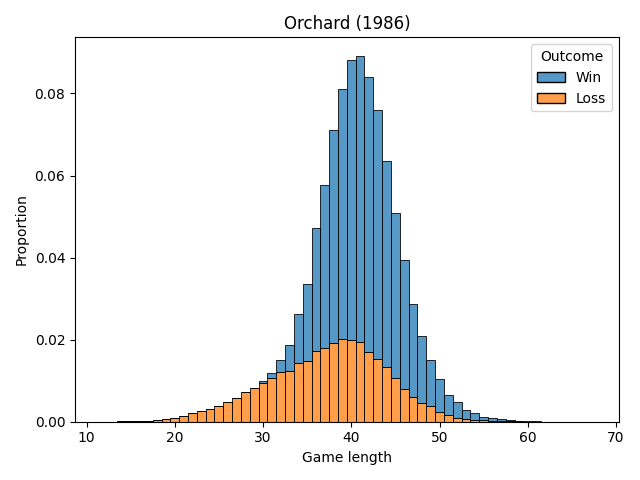
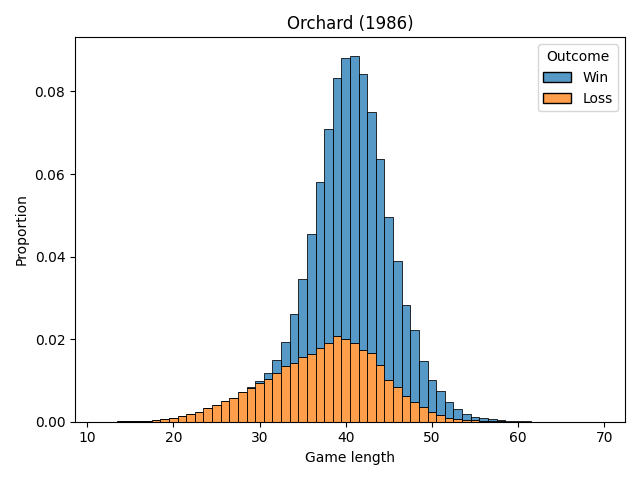
Added First Orchard plots

diff --git a/experiments/orchard/Plots.py b/experiments/orchard/Plots.py
@@ -27,49 +27,48 @@ warnings.filterwarnings("ignore")
 
 # %%
 num_games = 100_000
+random_seed = 42
 save_dir = Path().resolve() / "plots"
 save_dir.mkdir(parents=True, exist_ok=True)
 num_games, save_dir
 
 # %%
 # Original Orchard (1986)
-config = OrchardGameConfig(
+config_original = OrchardGameConfig(
     num_trees=4,
     fruits_per_tree=10,
     fruits_per_basket_roll=2,
     raven_steps=9,
 )
-# First Orchard (2009)
-# config = OrchardGameConfig(
-#     num_trees=4,
-#     fruits_per_tree=4,
-#     fruits_per_basket_roll=1,
-#     raven_steps=6,
-# )
-config
+config_original
 
 # %%
-results = OrchardGame.run_games(config=config, num_games=num_games)
-results.shape
+results_original = OrchardGame.run_games(
+    config=config_original,
+    num_games=num_games,
+    random_seed=random_seed,
+)
+results_original.shape
 
 # %%
-results.cast(pl.Int64).describe()
+results_original.cast(pl.Int64).describe()
 
 # %%
-data = results.select(
+data_original = results_original.select(
     pl.when(pl.col("win"))
     .then(pl.lit("Win"))
     .otherwise(pl.lit("Loss"))
     .alias("Outcome"),
     pl.col("round_length").alias("Game length"),
 )
-data.shape
+data_original.shape
 
 # %%
 sns.histplot(
-    data=data,
+    data=data_original,
     x="Game length",
     hue="Outcome",
+    hue_order=("Win", "Loss"),
     stat="proportion",
     discrete=True,
     common_norm=True,
@@ -78,4 +77,51 @@ sns.histplot(
 plt.title("Orchard (1986)")
 plt.tight_layout()
 plt.savefig(save_dir / "game_length_original.png")
+plt.show()
+
+# %%
+# First Orchard (2009)
+config_first = OrchardGameConfig(
+    num_trees=4,
+    fruits_per_tree=4,
+    fruits_per_basket_roll=1,
+    raven_steps=6,
+)
+config_first
+
+# %%
+results_first = OrchardGame.run_games(
+    config=config_first,
+    num_games=num_games,
+    random_seed=random_seed,
+)
+results_first.shape
+
+# %%
+results_first.cast(pl.Int64).describe()
+
+# %%
+data_first = results_first.select(
+    pl.when(pl.col("win"))
+    .then(pl.lit("Win"))
+    .otherwise(pl.lit("Loss"))
+    .alias("Outcome"),
+    pl.col("round_length").alias("Game length"),
+)
+data_first.shape
+
+# %%
+sns.histplot(
+    data=data_first,
+    x="Game length",
+    hue="Outcome",
+    hue_order=("Win", "Loss"),
+    stat="proportion",
+    discrete=True,
+    common_norm=True,
+    multiple="stack",
+)
+plt.title("First Orchard (2009)")
+plt.tight_layout()
+plt.savefig(save_dir / "game_length_first.png")
 plt.show()
